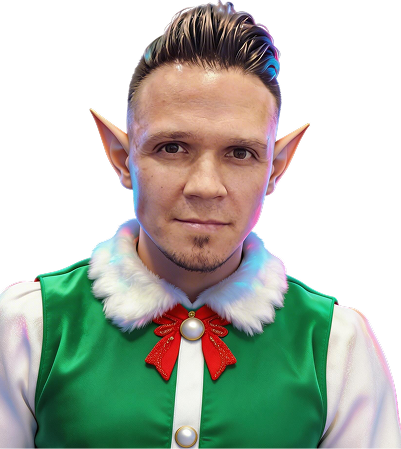
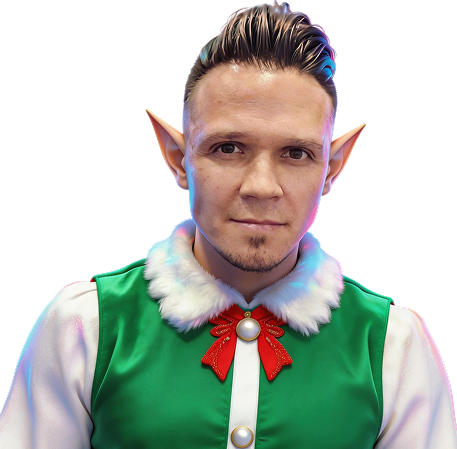
Fix: Правки для Grid секции с командой

diff --git a/local/src/styles/modules/kibermats/teamGrid.scss b/local/src/styles/modules/kibermats/teamGrid.scss
@@ -19,6 +19,9 @@
       grid-auto-rows: 60px;
       gap: 24px;
     }
+    @include respond(3xl) {
+      grid-auto-rows: 88px;
+    }
   }
 }
 
@@ -82,7 +85,7 @@
   grid-row: span 4;
   background-color: #cdd6ff;
   .team-grid-card__image {
-    max-width: 90%;
+    //max-width: 90%;
     left: 50%;
     transform: translateX(-50%);
   }
@@ -96,8 +99,9 @@
   grid-row: span 4;
   background-color: #f3dbdc;
   .team-grid-card__image {
-    max-width: 80%;
+    max-width: 74%;
     right: 0;
+    top: -54px;
   }
 }
 
@@ -159,8 +163,8 @@
 .team-grid__item--p9 {
   grid-row: span 4;
   background-color: #d0f6ec;
+  overflow: hidden;
   .team-grid-card__image {
-    max-width:94%;
     left: 50%;
     transform: translateX(-50%);
   }
@@ -240,7 +244,7 @@
   grid-row: span 4;
   background-color: #f9e5d8;
   .team-grid-card__image {
-    max-width: 82%;
+    max-width: 78%;
     left: 50%;
     transform: translateX(-50%);
   }
@@ -265,7 +269,6 @@
   grid-row: span 4;
   background-color: #e6f5ff;
   .team-grid-card__image {
-    max-width: 86%;
     left: 50%;
     transform: translateX(-50%);
   }
